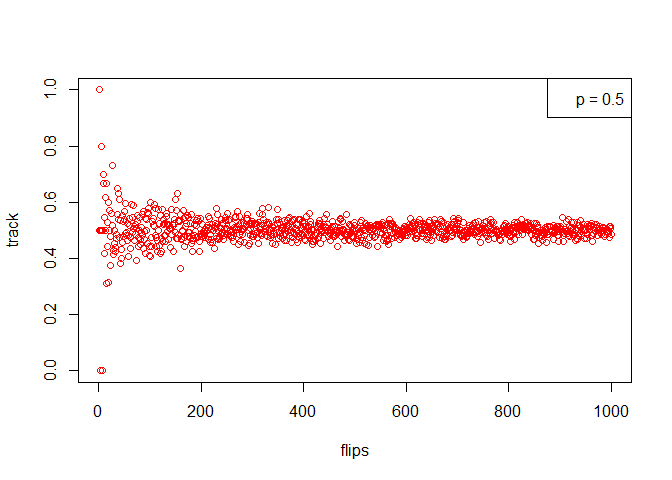
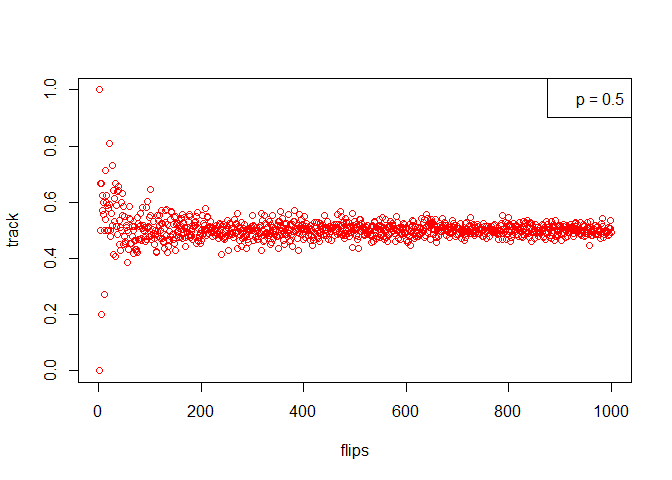
seminar02b

Changed region(s): [[0.125, 0.375, 0.9375, 0.5625], [0.125, 0.75, 0.1562, 0.7812]]

diff --git a/seminar02b.html b/seminar02b.html
@@ -67,7 +67,10 @@ img {
 </div>
 
 
-<p>tosses = times the coin is flipped in one trytries = toss events p = probability of getting a head turn coinflips into a function</p>
+<p>tosses = times the coin is flipped in one try,</p>
+<p>tries = toss events,</p>
+<p>p = probability of getting a head,</p>
+<p>turn coinflips into a function:</p>
 <pre class="r"><code>coinflips &lt;- function(tosses, tries, p){
   tab &lt;- matrix(runif(tosses * tries) &gt; p,
               nrow = length(tosses), ncol=tries)
@@ -77,9 +80,8 @@ img {
   return(prop)
 }
 coinflips(1, 100, 0.5)</code></pre>
-<pre><code>## [1] 0.53</code></pre>
+<pre><code>## [1] 0.49</code></pre>
 <p>loop over many tries</p>
-<p>B &lt;- 1000 n &lt;- 1 track &lt;- matrix(nrow = B, ncol = n, dimnames = list(c(1:B),names(n))) for (i in 1:B) { track[i,] &lt;- coinflips(1, i, 0.5) } tail(track)</p>
 <pre class="r"><code>B &lt;- 1000
 n &lt;- 1
 track &lt;- matrix(nrow = B, ncol = n, dimnames = list(c(1:B),names(n)))
@@ -88,17 +90,17 @@ for (i in 1:B) {
 }
 tail(track)</code></pre>
 <pre><code>##           [,1]
-## 995  0.4894472
-## 996  0.5140562
-## 997  0.4744233
-## 998  0.5140281
-## 999  0.5065065
-## 1000 0.4860000</code></pre>
-<p>expect convergence around y = 0 make scatter plot</p>
-<p>plot(track, xlab=“flips”, col=“red”) legend(“topright”, c(“p = 0.5”))</p>
[1 lines of base64/hex data omitted]
-<p>boxplot(track) legend(“topright”, c(“p = 0.5”))</p>
[1 lines of base64/hex data omitted]
+## 995  0.4804020
+## 996  0.4849398
+## 997  0.5085256
+## 998  0.5340681
+## 999  0.5085085
+## 1000 0.4930000</code></pre>
+<p>expect convergence around y = 0,</p>
+<p>make scatter plot</p>
[1 lines of base64/hex data omitted]
+<p>or make a boxplot</p>
[1 lines of base64/hex data omitted]
 
 
 </div>

diff --git a/seminar02b.md b/seminar02b.md
@@ -2,10 +2,13 @@
 Ali  
 Wednesday, January 21, 2015  
 
-tosses = times the coin is flipped in one try\n
-tries = toss events
-p = probability of getting a head
-turn coinflips into a function
+tosses = times the coin is flipped in one try,
+
+tries = toss events,
+
+p = probability of getting a head,
+
+turn coinflips into a function:
 
 
 
@@ -22,18 +25,11 @@ coinflips(1, 100, 0.5)
 ```
 
 ```
-## [1] 0.53
+## [1] 0.49
 ```
 
 loop over many tries
 
-B <- 1000
-n <- 1
-track <- matrix(nrow = B, ncol = n, dimnames = list(c(1:B),names(n)))
-for (i in 1:B) {
-  track[i,] <- coinflips(1, i, 0.5)
-}
-tail(track)
 
 ```r
 B <- 1000
@@ -47,23 +43,19 @@ tail(track)
 
 ```
 ##           [,1]
-## 995  0.4894472
-## 996  0.5140562
-## 997  0.4744233
-## 998  0.5140281
-## 999  0.5065065
-## 1000 0.4860000
+## 995  0.4804020
+## 996  0.4849398
+## 997  0.5085256
+## 998  0.5340681
+## 999  0.5085085
+## 1000 0.4930000
 ```
-expect convergence around y = 0
+expect convergence around y = 0,
+
 make scatter plot
 
-plot(track, xlab="flips", col="red")
-legend("topright", c("p = 0.5"))
-
 ![](seminar02b_files/figure-html/unnamed-chunk-3-1.png) 
-or make a boxplot
 
-boxplot(track)
-legend("topright", c("p = 0.5"))
+or make a boxplot
 
 ![](seminar02b_files/figure-html/unnamed-chunk-4-1.png) 
